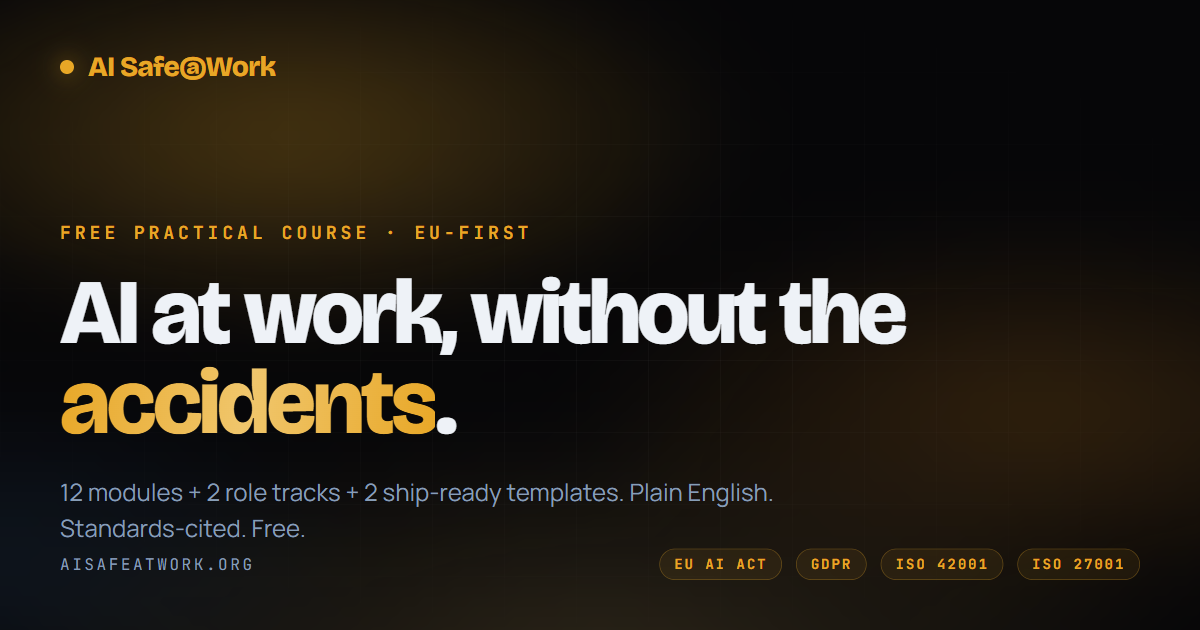
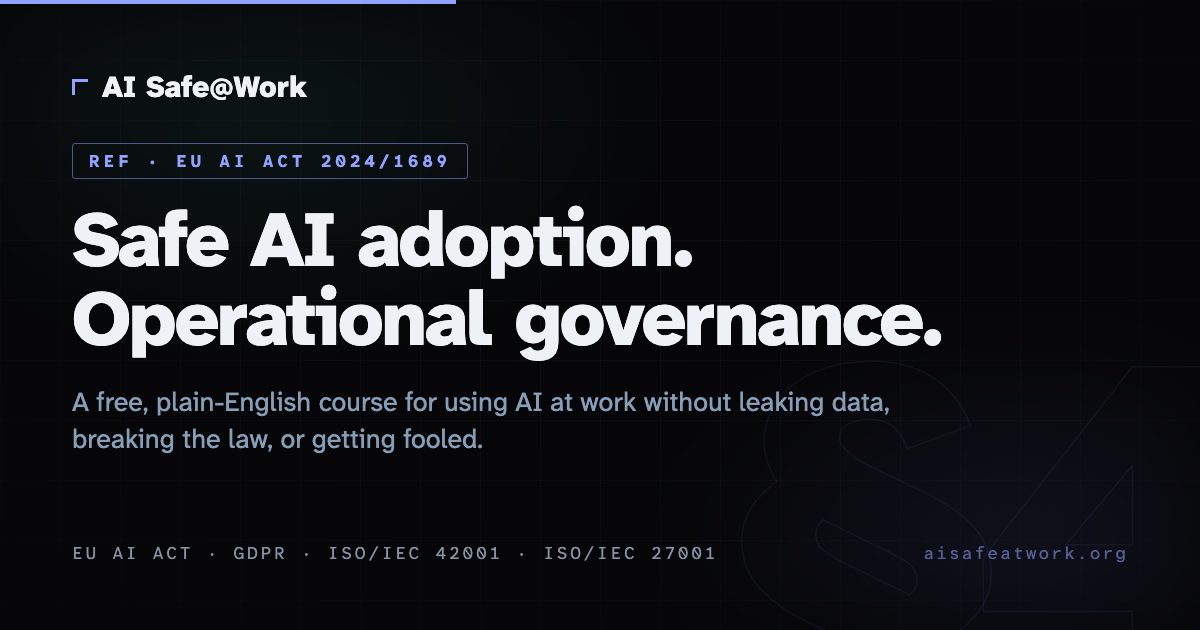
Rebrand social share card to Periwinkle/Carbon (was old amber)
The og-card.png — the social face of every shared link — was still the
retired amber design. Regenerated on-brand:
- New video-m2 OgCard composition (1200×630) in the Audit Dossier
  language: corner-mark wordmark, REF · EU AI Act 2024/1689 chip,
  Atkinson headline, standards row, §4 clause watermark, blueprint grid.
- Rendered via `remotion still` to exact 1200×630 PNG, replacing
  og-card.png.
- og:image / twitter:image bumped to ?v=2 on 48 pages so platforms
  re-scrape the fresh card.

diff --git a/video-m2/src/OgCard.tsx b/video-m2/src/OgCard.tsx
@@ -1,0 +1,93 @@
+import React from "react";
+import { AbsoluteFill } from "remotion";
+import { display, mono, BG, INK, INK2, INK3, PERI, PERI_DIM } from "./theme";
+
+// 1200×630 social share card — Periwinkle/Carbon "Audit Dossier" language.
+export const OgCard: React.FC = () => {
+  return (
+    <AbsoluteFill style={{ backgroundColor: BG, overflow: "hidden" }}>
+      {/* spectral wash */}
+      <AbsoluteFill
+        style={{
+          background:
+            "radial-gradient(ellipse 55% 60% at 22% 18%, rgba(79,216,196,0.07) 0%, transparent 60%)," +
+            "radial-gradient(ellipse 50% 55% at 85% 85%, rgba(124,140,255,0.08) 0%, transparent 62%)",
+          filter: "blur(40px)",
+        }}
+      />
+      {/* blueprint grid */}
+      <AbsoluteFill
+        style={{
+          backgroundImage:
+            "linear-gradient(to right, rgba(145,162,255,0.05) 1px, transparent 1px)," +
+            "linear-gradient(to bottom, rgba(145,162,255,0.05) 1px, transparent 1px)",
+          backgroundSize: "60px 60px",
+          maskImage: "radial-gradient(ellipse 90% 90% at 50% 45%, #000 0%, transparent 85%)",
+          WebkitMaskImage: "radial-gradient(ellipse 90% 90% at 50% 45%, #000 0%, transparent 85%)",
+        }}
+      />
+      {/* giant clause watermark */}
+      <div
+        style={{
+          position: "absolute", right: -40, bottom: -120,
+          fontFamily: display, fontWeight: 800, fontSize: 460, lineHeight: 1,
+          letterSpacing: "-0.05em", color: "transparent",
+          WebkitTextStroke: "1.5px rgba(145,162,255,0.07)", userSelect: "none",
+        }}
+      >
+        §4
+      </div>
+
+      {/* content */}
+      <div style={{ position: "absolute", inset: 0, padding: "64px 72px", display: "flex", flexDirection: "column" }}>
+        {/* brand row */}
+        <div style={{ display: "flex", alignItems: "center", gap: 14 }}>
+          <span style={{ width: 16, height: 16, borderTop: `3px solid ${PERI}`, borderLeft: `3px solid ${PERI}`, display: "inline-block" }} />
+          <span style={{ fontFamily: display, fontSize: 30, fontWeight: 800, color: INK }}>AI Safe@Work</span>
+        </div>
+
+        {/* REF chip */}
+        <div style={{ marginTop: 40 }}>
+          <span
+            style={{
+              fontFamily: mono, fontSize: 17, fontWeight: 700, letterSpacing: "0.22em",
+              color: PERI, border: "1.5px solid rgba(145,162,255,0.5)", borderRadius: 3, padding: "6px 16px",
+            }}
+          >
+            REF · EU AI ACT 2024/1689
+          </span>
+        </div>
+
+        {/* headline */}
+        <h1
+          style={{
+            fontFamily: display, fontSize: 78, fontWeight: 800, lineHeight: 1.02,
+            letterSpacing: "-0.03em", color: INK, margin: "26px 0 0", maxWidth: 980,
+          }}
+        >
+          Safe AI adoption.
+          <br />
+          Operational governance.
+        </h1>
+
+        {/* sub */}
+        <p style={{ fontFamily: display, fontSize: 27, lineHeight: 1.4, color: INK2, margin: "24px 0 0", maxWidth: 860 }}>
+          A free, plain-English course for using AI at work without leaking data,
+          breaking the law, or getting fooled.
+        </p>
+
+        {/* footer rule + standards */}
+        <div style={{ marginTop: "auto", display: "flex", alignItems: "center", justifyContent: "space-between" }}>
+          <span style={{ fontFamily: mono, fontSize: 17, letterSpacing: "0.16em", color: INK3 }}>
+            EU AI ACT · GDPR · ISO/IEC 42001 · ISO/IEC 27001
+          </span>
+          <span style={{ fontFamily: mono, fontSize: 17, letterSpacing: "0.12em", color: PERI_DIM }}>
+            aisafeatwork.org
+          </span>
+        </div>
+      </div>
+      {/* top hairline accent */}
+      <div style={{ position: "absolute", top: 0, left: 0, width: "38%", height: 4, background: PERI }} />
+    </AbsoluteFill>
+  );
+};

diff --git a/video-m2/src/Root.tsx b/video-m2/src/Root.tsx
@@ -2,6 +2,7 @@ import "./index.css";
 import React from "react";
 import { Composition, staticFile } from "remotion";
 import { Module2 } from "./Module2";
+import { OgCard } from "./OgCard";
 import { SCENES, FPS } from "./script";
 import { getAudioDuration } from "./get-audio-duration";
 import { AUDIO_EXT } from "./theme";
@@ -19,6 +20,7 @@ const EXTRA_TAIL: Record<string, number> = {
 
 export const RemotionRoot: React.FC = () => {
   return (
+    <>
     <Composition
       id="Module2"
       component={Module2}
@@ -40,5 +42,14 @@ export const RemotionRoot: React.FC = () => {
         };
       }}
     />
+      <Composition
+        id="OgCard"
+        component={OgCard}
+        fps={1}
+        width={1200}
+        height={630}
+        durationInFrames={1}
+      />
+    </>
   );
 };

diff --git a/accessibility.html b/accessibility.html
@@ -13,12 +13,12 @@
 <meta property="og:title" content="Accessibility — AI Safe@Work" />
 <meta property="og:description" content="Accessibility statement for the AI Safe@Work course. WCAG 2.2 AA target." />
 <meta property="og:url" content="https://aisafeatwork.org/accessibility.html" />
-<meta property="og:image" content="https://aisafeatwork.org/og-card.png" />
+<meta property="og:image" content="https://aisafeatwork.org/og-card.png?v=2" />
 <meta property="og:locale" content="en_GB" />
 <meta name="twitter:card" content="summary_large_image" />
 <meta name="twitter:title" content="Accessibility — AI Safe@Work" />
 <meta name="twitter:description" content="Accessibility statement for the AI Safe@Work course. WCAG 2.2 AA target." />
-<meta name="twitter:image" content="https://aisafeatwork.org/og-card.png" />
+<meta name="twitter:image" content="https://aisafeatwork.org/og-card.png?v=2" />
 <link rel="preload" href="assets/fonts/ahn-latin.woff2" as="font" type="font/woff2" crossorigin />
 <link rel="preload" href="assets/fonts/ahm-latin.woff2" as="font" type="font/woff2" crossorigin />
 <link rel="stylesheet" href="assets/fonts/atkinson.css?v=1" />

diff --git a/changelog.html b/changelog.html
@@ -13,12 +13,12 @@
 <meta property="og:title" content="Changelog — AI Safe@Work" />
 <meta property="og:description" content="Public release notes for AI Safe@Work. Quarterly cadence — each release walks every citation against its primary source, refreshes against regulator updates, and is dated in every page footer." />
 <meta property="og:url" content="https://aisafeatwork.org/changelog.html" />
-<meta property="og:image" content="https://aisafeatwork.org/og-card.png" />
+<meta property="og:image" content="https://aisafeatwork.org/og-card.png?v=2" />
 <meta property="og:locale" content="en_GB" />
 <meta name="twitter:card" content="summary_large_image" />
 <meta name="twitter:title" content="Changelog — AI Safe@Work" />
 <meta name="twitter:description" content="Public release notes for AI Safe@Work. Quarterly cadence — each release walks every citation against its primary source, refreshes against regulator updates, and is dated in every page footer." />
-<meta name="twitter:image" content="https://aisafeatwork.org/og-card.png" />
+<meta name="twitter:image" content="https://aisafeatwork.org/og-card.png?v=2" />
 <link rel="alternate" type="application/rss+xml" title="AI Safe@Work — Changelog (RSS)" href="https://aisafeatwork.org/changelog.xml" />
 <link rel="alternate" type="application/feed+json" title="AI Safe@Work — Changelog (JSON Feed)" href="https://aisafeatwork.org/changelog.json" />
 <link rel="preload" href="assets/fonts/ahn-latin.woff2" as="font" type="font/woff2" crossorigin />

diff --git a/citations.html b/citations.html
@@ -13,12 +13,12 @@
 <meta property="og:title" content="Citations — AI Safe@Work" />
 <meta property="og:description" content="Every clause, article, court case and standard cited in the AI Safe@Work course, with a link to the primary source. Re-walked quarterly. Audit-grade." />
 <meta property="og:url" content="https://aisafeatwork.org/citations.html" />
-<meta property="og:image" content="https://aisafeatwork.org/og-card.png" />
+<meta property="og:image" content="https://aisafeatwork.org/og-card.png?v=2" />
 <meta property="og:locale" content="en_GB" />
 <meta name="twitter:card" content="summary_large_image" />
 <meta name="twitter:title" content="Citations — AI Safe@Work" />
 <meta name="twitter:description" content="Every clause, article, court case and standard cited in the AI Safe@Work course, with a link to the primary source. Re-walked quarterly. Audit-grade." />
-<meta name="twitter:image" content="https://aisafeatwork.org/og-card.png" />
+<meta name="twitter:image" content="https://aisafeatwork.org/og-card.png?v=2" />
 <link rel="preload" href="assets/fonts/ahn-latin.woff2" as="font" type="font/woff2" crossorigin />
 <link rel="preload" href="assets/fonts/ahm-latin.woff2" as="font" type="font/woff2" crossorigin />
 <link rel="stylesheet" href="assets/fonts/atkinson.css?v=1" />

diff --git a/complaints.html b/complaints.html
@@ -13,12 +13,12 @@
 <meta property="og:title" content="Complaints & corrections — AI Safe@Work" />
 <meta property="og:description" content="How to report an error, a broken link, an accessibility barrier, or a concern about the AI Safe@Work course." />
 <meta property="og:url" content="https://aisafeatwork.org/complaints.html" />
-<meta property="og:image" content="https://aisafeatwork.org/og-card.png" />
+<meta property="og:image" content="https://aisafeatwork.org/og-card.png?v=2" />
 <meta property="og:locale" content="en_GB" />
 <meta name="twitter:card" content="summary_large_image" />
 <meta name="twitter:title" content="Complaints & corrections — AI Safe@Work" />
 <meta name="twitter:description" content="How to report an error, a broken link, an accessibility barrier, or a concern about the AI Safe@Work course." />
-<meta name="twitter:image" content="https://aisafeatwork.org/og-card.png" />
+<meta name="twitter:image" content="https://aisafeatwork.org/og-card.png?v=2" />
 <link rel="preload" href="assets/fonts/ahn-latin.woff2" as="font" type="font/woff2" crossorigin />
 <link rel="preload" href="assets/fonts/ahm-latin.woff2" as="font" type="font/woff2" crossorigin />
 <link rel="stylesheet" href="assets/fonts/atkinson.css?v=1" />

diff --git a/course.html b/course.html
@@ -13,12 +13,12 @@
 <meta property="og:title" content="The 12 modules — AI Safe@Work" />
 <meta property="og:description" content="Twelve practical modules on using AI safely at work. Covers data leaks, the never-paste list, picking the right tool, verifying outputs, AI-powered scams, bias, copyright, incident response, and the standards (ISO 42001, ISO 27001, GDPR, EU AI Act) in plain English." />
 <meta property="og:url" content="https://aisafeatwork.org/course.html" />
-<meta property="og:image" content="https://aisafeatwork.org/og-card.png" />
+<meta property="og:image" content="https://aisafeatwork.org/og-card.png?v=2" />
 <meta property="og:locale" content="en_GB" />
 <meta name="twitter:card" content="summary_large_image" />
 <meta name="twitter:title" content="The 12 modules — AI Safe@Work" />
 <meta name="twitter:description" content="Twelve practical modules on using AI safely at work. Covers data leaks, the never-paste list, picking the right tool, verifying outputs, AI-powered scams, bias, copyright, incident response, and the standards (ISO 42001, ISO 27001, GDPR, EU AI Act) in plain English." />
-<meta name="twitter:image" content="https://aisafeatwork.org/og-card.png" />
+<meta name="twitter:image" content="https://aisafeatwork.org/og-card.png?v=2" />
 <link rel="preload" href="assets/fonts/ahn-latin.woff2" as="font" type="font/woff2" crossorigin />
 <link rel="preload" href="assets/fonts/ahm-latin.woff2" as="font" type="font/woff2" crossorigin />
 <link rel="stylesheet" href="assets/fonts/atkinson.css?v=1" />

diff --git a/module-1.html b/module-1.html
@@ -13,12 +13,12 @@
 <meta property="og:title" content="Module 1 · Why this course exists — AI Safe@Work" />
 <meta property="og:description" content="Three real incidents that cost real money. What 'AI risk' actually means when you're not running an AI company — just using one." />
 <meta property="og:url" content="https://aisafeatwork.org/module-1.html" />
-<meta property="og:image" content="https://aisafeatwork.org/og-card.png" />
+<meta property="og:image" content="https://aisafeatwork.org/og-card.png?v=2" />
 <meta property="og:locale" content="en_GB" />
 <meta name="twitter:card" content="summary_large_image" />
 <meta name="twitter:title" content="Module 1 · Why this course exists — AI Safe@Work" />
 <meta name="twitter:description" content="Three real incidents that cost real money. What 'AI risk' actually means when you're not running an AI company — just using one." />
-<meta name="twitter:image" content="https://aisafeatwork.org/og-card.png" />
+<meta name="twitter:image" content="https://aisafeatwork.org/og-card.png?v=2" />
 <link rel="preload" href="assets/fonts/ahn-latin.woff2" as="font" type="font/woff2" crossorigin />
 <link rel="preload" href="assets/fonts/ahm-latin.woff2" as="font" type="font/woff2" crossorigin />
 <link rel="stylesheet" href="assets/fonts/atkinson.css?v=1" />

diff --git a/module-10.html b/module-10.html
@@ -13,12 +13,12 @@
 <meta property="og:title" content="Module 10 · When something goes wrong — AI Safe@Work" />
 <meta property="og:description" content="Incident response in plain English. How to escalate. What to write to your manager or DPO. Preserving evidence. The potential 72-hour breach notification requirement." />
 <meta property="og:url" content="https://aisafeatwork.org/module-10.html" />
-<meta property="og:image" content="https://aisafeatwork.org/og-card.png" />
+<meta property="og:image" content="https://aisafeatwork.org/og-card.png?v=2" />
 <meta property="og:locale" content="en_GB" />
 <meta name="twitter:card" content="summary_large_image" />
 <meta name="twitter:title" content="Module 10 · When something goes wrong — AI Safe@Work" />
 <meta name="twitter:description" content="Incident response in plain English. How to escalate. What to write to your manager or DPO. Preserving evidence. The potential 72-hour breach notification requirement." />
-<meta name="twitter:image" content="https://aisafeatwork.org/og-card.png" />
+<meta name="twitter:image" content="https://aisafeatwork.org/og-card.png?v=2" />
 <link rel="preload" href="assets/fonts/ahn-latin.woff2" as="font" type="font/woff2" crossorigin />
 <link rel="preload" href="assets/fonts/ahm-latin.woff2" as="font" type="font/woff2" crossorigin />
 <link rel="stylesheet" href="assets/fonts/atkinson.css?v=1" />

diff --git a/module-11.html b/module-11.html
@@ -13,12 +13,12 @@
 <meta property="og:title" content="Module 11 · The 60-second pre-submit checklist — AI Safe@Work" />
 <meta property="og:description" content="Print it. Stick it next to your screen. Run through it before pasting anything into an AI tool." />
 <meta property="og:url" content="https://aisafeatwork.org/module-11.html" />
-<meta property="og:image" content="https://aisafeatwork.org/og-card.png" />
+<meta property="og:image" content="https://aisafeatwork.org/og-card.png?v=2" />
 <meta property="og:locale" content="en_GB" />
 <meta name="twitter:card" content="summary_large_image" />
 <meta name="twitter:title" content="Module 11 · The 60-second pre-submit checklist — AI Safe@Work" />
 <meta name="twitter:description" content="Print it. Stick it next to your screen. Run through it before pasting anything into an AI tool." />
-<meta name="twitter:image" content="https://aisafeatwork.org/og-card.png" />
+<meta name="twitter:image" content="https://aisafeatwork.org/og-card.png?v=2" />
 <link rel="preload" href="assets/fonts/ahn-latin.woff2" as="font" type="font/woff2" crossorigin />
 <link rel="preload" href="assets/fonts/ahm-latin.woff2" as="font" type="font/woff2" crossorigin />
 <link rel="stylesheet" href="assets/fonts/atkinson.css?v=1" />

diff --git a/module-12.html b/module-12.html
@@ -13,12 +13,12 @@
 <meta property="og:title" content="Module 12 · The standards behind this course — AI Safe@Work" />
 <meta property="og:description" content="ISO 42001, ISO 27001, GDPR, EU AI Act — what each one covers, who it applies to, and what it means for me on a Tuesday morning." />
 <meta property="og:url" content="https://aisafeatwork.org/module-12.html" />
-<meta property="og:image" content="https://aisafeatwork.org/og-card.png" />
+<meta property="og:image" content="https://aisafeatwork.org/og-card.png?v=2" />
 <meta property="og:locale" content="en_GB" />
 <meta name="twitter:card" content="summary_large_image" />
 <meta name="twitter:title" content="Module 12 · The standards behind this course — AI Safe@Work" />
 <meta name="twitter:description" content="ISO 42001, ISO 27001, GDPR, EU AI Act — what each one covers, who it applies to, and what it means for me on a Tuesday morning." />
-<meta name="twitter:image" content="https://aisafeatwork.org/og-card.png" />
+<meta name="twitter:image" content="https://aisafeatwork.org/og-card.png?v=2" />
 <link rel="preload" href="assets/fonts/ahn-latin.woff2" as="font" type="font/woff2" crossorigin />
 <link rel="preload" href="assets/fonts/ahm-latin.woff2" as="font" type="font/woff2" crossorigin />
 <link rel="stylesheet" href="assets/fonts/atkinson.css?v=1" />

diff --git a/module-2.html b/module-2.html
@@ -13,12 +13,12 @@
 <meta property="og:title" content="Module 2 · What AI tools do with what you type — AI Safe@Work" />
 <meta property="og:description" content="Free tier vs paid vs enterprise. Training opt-outs. Retention. What 'your conversation may be reviewed' really means." />
 <meta property="og:url" content="https://aisafeatwork.org/module-2.html" />
-<meta property="og:image" content="https://aisafeatwork.org/og-card.png" />
+<meta property="og:image" content="https://aisafeatwork.org/og-card.png?v=2" />
 <meta property="og:locale" content="en_GB" />
 <meta name="twitter:card" content="summary_large_image" />
 <meta name="twitter:title" content="Module 2 · What AI tools do with what you type — AI Safe@Work" />
 <meta name="twitter:description" content="Free tier vs paid vs enterprise. Training opt-outs. Retention. What 'your conversation may be reviewed' really means." />
-<meta name="twitter:image" content="https://aisafeatwork.org/og-card.png" />
+<meta name="twitter:image" content="https://aisafeatwork.org/og-card.png?v=2" />
 <link rel="preload" href="assets/fonts/ahn-latin.woff2" as="font" type="font/woff2" crossorigin />
 <link rel="preload" href="assets/fonts/ahm-latin.woff2" as="font" type="font/woff2" crossorigin />
 <link rel="stylesheet" href="assets/fonts/atkinson.css?v=1" />